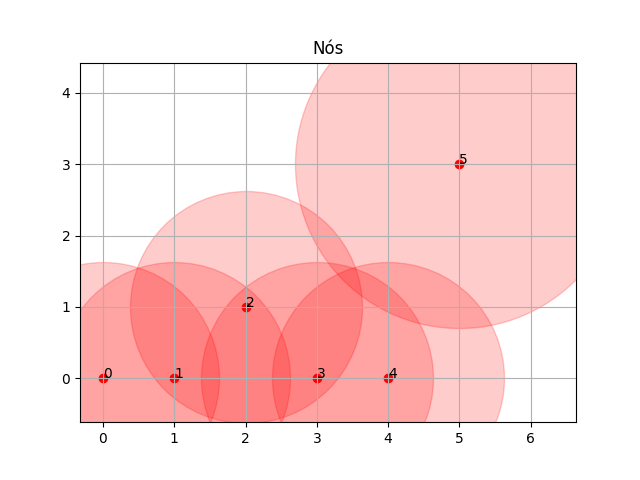
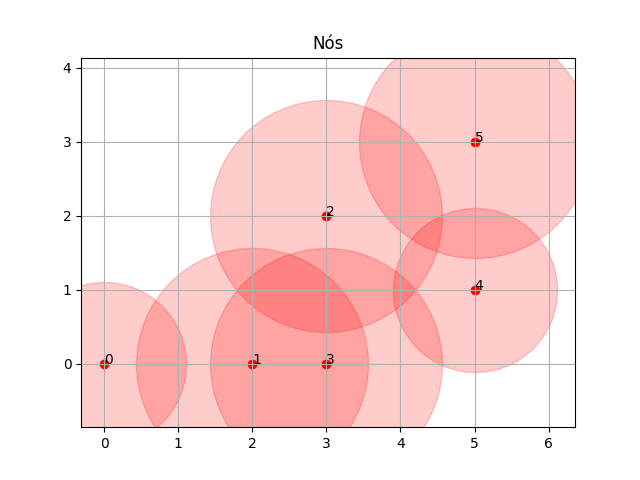
erros nas mensagens

diff --git a/camadaRede.py b/camadaRede.py
@@ -23,9 +23,9 @@ class CamadaRede:
         cabecalho = Cabecalho("REDE", self._camadaEnlace._camadaFisica._id, macDestino, -1, 1, -1, sequencia)
         pacote = Pacote(rota, 1)
         pacote.addCabecalho(cabecalho)
-        msg = "Enviando um RREP com destino para"
+        msg = "Enviando um RREP com destino para ID:"
         #exibe pacote criado
-        self.exibePacote(msg,  self._camadaEnlace._camadaFisica._id, macDestino)
+        self.exibePacote(msg,  self._camadaEnlace._camadaFisica._id, macDestino, cabecalho._sequenNum)
         #Define a rota requisitada
         for indice,mac in enumerate(cabecalho._sequenList):
             if(mac == self._camadaEnlace._camadaFisica._id):       
@@ -42,15 +42,15 @@ class CamadaRede:
         # add o proprio endereço da camada fisica no pacote 
         sequencia.append(self._camadaEnlace._camadaFisica._id)
         # numero do pacote
-        sequenNum = random.randint(1,128733788) 
+        sequenNum = random.randint(1,4412349) 
         self._listaRREQS.append(sequenNum)
         #Cria um pacote e inseri o cabeçalho da camada de rede
         cabecalho = Cabecalho("REDE", self._camadaEnlace._camadaFisica._id, macDestino, -1, 0, sequenNum, sequencia)
         pacote = Pacote("", 1)
         pacote.addCabecalho(cabecalho)
-        msg = "Enviando um RREQ "
+        msg = "Enviando um RREQ"
         #exibe pacote criado
-        self.exibePacote(msg, self._camadaEnlace._camadaFisica._id, None)
+        self.exibePacote(msg, self._camadaEnlace._camadaFisica._id,macDestino, sequenNum) #TROQUEI CABEÇALHO._SEQUENNUM por sequenNUM
         #add a camada de enlace o pacote
         self._camadaEnlace.addPacote(pacote, -1)
         
@@ -63,16 +63,16 @@ class CamadaRede:
             pacote = self._camadaEnlace._pacotesLidos.pop(0)
             cabecalho = pacote.getCabecalhoRede()
             #Se o pacote for recebido for de dados
-            if(cabecalho._requesicao == -1):
+            if(cabecalho._requisicao == -1):
                 #Verifica se o pacote é para aquele no
                 if(cabecalho._macDestino == self._camadaEnlace._camadaFisica._id):
                     msg = "Pacote de dados"
-                    self.exibePacote(msg, self._camadaEnlace._camadaFisica._id, pacote._dados)
+                    self.exibePacote(msg, self._camadaEnlace._camadaFisica._id, pacote._dados, cabecalho._sequenNum)
                 else:
                     msg = "Chegada de pacote de dados mas não é pra mim "
-                    self.exibePacote(msg, self._camadaEnlace._camadaFisica._id, 0)
+                    self.exibePacote(msg, self._camadaEnlace._camadaFisica._id, cabecalho._macDestino, cabecalho._sequenNum)
                     msg_2 = "Enviando pacote de dados para o nó seguinte"
-                    self.exibePacote(msg_2, self._camadaEnlace._camadaFisica._id, 0)
+                    self.exibePacote(msg_2, self._camadaEnlace._camadaFisica._id, cabecalho._macDestino,cabecalho._sequenNum) #!!!!!!
                     for indice,mac in enumerate(pacote._cabecalhos[0]._sequenList):
                         if(mac == self._camadaEnlace._camadaFisica._id):
                             proximoDestino = cabecalho._sequenList[indice-1]
@@ -82,9 +82,9 @@ class CamadaRede:
                     indicesParaEnvio.append(self._camadaEnlace._camadaFisica._id)
 
             #Se o pacote for recebido for um RREQ
-            elif(cabecalho._requesicao == 0):
+            elif(cabecalho._requisicao == 0):
                 msg = "Chegada de pacote RREQ"
-                self.exibePacote(msg, self._camadaEnlace._camadaFisica._id, cabecalho._sequenNum)
+                self.exibePacote(msg, self._camadaEnlace._camadaFisica._id, cabecalho._macDestino, cabecalho._sequenNum)
                 #Verifica se esse RREQ já foi recebido pelo nó
                 if(not cabecalho._sequenNum in self._listaRREQS):
                     self._listaRREQS.append(cabecalho._sequenNum)
@@ -93,14 +93,13 @@ class CamadaRede:
                     #Verifica se o RREQ é para o nó
                     if(cabecalho._macDestino == self._camadaEnlace._camadaFisica._id):
                         msg = "Eu sou o destino do RREQ"
-                        self.exibePacote(msg, self._camadaEnlace._camadaFisica._id, 0)
+                        self.exibePacote(msg, self._camadaEnlace._camadaFisica._id, cabecalho._macDestino, cabecalho._sequenNum)
                         rota = cabecalho._sequenList
                         macDestino = rota[0]
                         sequenParaFonte = rota 
                         sequenParaFonte.reverse()
                         self.enviaRREP(macDestino,sequenParaFonte, rota)
                         indicesParaEnvio.append(self._camadaEnlace._camadaFisica._id)
-
                     else:
                         print("ID:", self._camadaEnlace._camadaFisica._id, "Eu não sou o destino do RREQ")
                         self._camadaEnlace.addPacote(pacote, -1)
@@ -108,18 +107,18 @@ class CamadaRede:
                 
                 else:
                     msg = "Ja tenho esse RREQ"
-                    self.exibePacote(msg, self._camadaEnlace._camadaFisica._id, cabecalho._sequenNum)
+                    self.exibePacote(msg, self._camadaEnlace._camadaFisica._id, cabecalho._macDestino ,cabecalho._sequenNum)
             #Se o pacote for recebido for um RREP
-            elif(cabecalho._requesicao == 1):
+            elif(cabecalho._requisicao == 1):
                 destino = cabecalho._macDestino
                 msg = "Chegada de pacote RREP: "
-                self.exibePacote(msg, self._camadaEnlace._camadaFisica._id, cabecalho._sequenList)
+                self.exibePacote(msg, self._camadaEnlace._camadaFisica._id, cabecalho._macDestino, cabecalho._sequenList)
                 #Verifica se o RREP é para o nó
                 if(destino == self._camadaEnlace._camadaFisica._id):
                     msg = "Eu sou o destino do RREP"
-                    self.exibePacote(msg, self._camadaEnlace._camadaFisica._id, 0)
+                    self.exibePacote(msg, self._camadaEnlace._camadaFisica._id, cabecalho._macDestino,  cabecalho._sequenNum)
                     msg_2 = "Enviando dados"
-                    self.exibePacote(msg, self._camadaEnlace._camadaFisica._id, 0)
+                    self.exibePacote(msg, self._camadaEnlace._camadaFisica._id, cabecalho._macDestino, cabecalho._sequenNum)
                     sequenParaFonte = pacote._dados
                     rota = Rota(cabecalho._sequenList[0],sequenParaFonte)
                     self._rotas.append(rota)
@@ -127,7 +126,7 @@ class CamadaRede:
 
                 else:
                     msg = "Eu não sou o destino do RREP"
-                    self.exibePacote(msg, self._camadaEnlace._camadaFisica._id, 0)
+                    self.exibePacote(msg, self._camadaEnlace._camadaFisica._id, cabecalho._macDestino,  cabecalho._sequenNum)
                     for indice,mac in enumerate(cabecalho._sequenList):
                         if(mac == self._camadaEnlace._camadaFisica._id):
                             proximoDestino = cabecalho._sequenList[indice+1]
@@ -172,7 +171,6 @@ class CamadaRede:
                 indicesParaEnvio.append(self._camadaEnlace._camadaFisica._id)
 
             elif(not cabecalho._macDestino in self._ListasRotasEspera):
-
                 self._ListasRotasEspera.append(pacote._cabecalhos[0]._macDestino)
                 self.enviaRREQ(pacote._cabecalhos[0]._macDestino)
 
@@ -180,9 +178,19 @@ class CamadaRede:
         #Chama a função de enviar pacotes da camada de enlace
         self._camadaEnlace.enviaPacote()
         
-    def exibePacote(self, mensagem,  id, macDestino):
+    def exibePacote(self, mensagem,  id, macDestino, NumSequencia):
         if(mensagem == "Pacote de dados"):
             print(GREEN, "\nID:", id, "Mensagem:", macDestino, RESET)
+        elif(mensagem == "Enviando um RREQ"):
+            print("ID:", macDestino, mensagem,"para ID:" ,id, "com NumSequencia:", NumSequencia)
+        elif(mensagem == "Chegada de pacote RREQ"):
+            print("ID:",macDestino, mensagem, "com:", NumSequencia)
+        elif(mensagem == "Eu sou o destino do RREQ"):
+            print(GREEN, "\rID:", id, mensagem, RESET)
+        elif(mensagem == "Ja tenho esse RREQ"):
+            print("ID:", id, mensagem)
+        elif(mensagem == "Enviando um RREP com destino para ID:"):
+            print("ID:",macDestino, mensagem, id)
         else:
-            print("\nID:", id, mensagem, "MacDestino:", macDestino)
+            print("ID:", id, mensagem, "MacDestino", macDestino)
         

diff --git a/cabecalhos.py b/cabecalhos.py
@@ -1,20 +1,20 @@
 class Cabecalho:
 
-    def __init__(self, camada, macOrigem, macDestino, numero, requesicao, sequenNum, sequenList):
+    def __init__(self, camada, macOrigem, macDestino, numero, requisicao, sequenNum, sequenList):
         
-        #Cabeçario para a camada de enlace 
+        #Cabeçalho quando o pacote for camada de enlace 
         if(camada == "ENLACE"):
             self._camada = "ENLACE"
             self._macOrigem = macOrigem
             self._macDestino = macDestino
             self._numero = numero
 
-        #Cabeçario para a camada de rede  
+        #Cabeçalho quando o pacote for camada de rede  
         if( camada == "REDE"):
             self._camada = "REDE"
             self._macDestino = macDestino
             #identifica tipos de pacote de controle, requisição 
-            self._requesicao = requesicao
+            self._requisicao = requisicao
             # numero do pacote
             self._sequenNum = sequenNum
             # endereço mac da camada fisica

diff --git a/main.py b/main.py
@@ -7,12 +7,12 @@ from graficos  import criaGraficos
 from constantes import *
 
 #No(id, cobertura, x, y, bateria)
-Lucas = No(0, 2, 0, 0, 40)
-Thales = No(1, 2, 1, 0, 10)
-Joao = No(2, 2, 2, 1, 10)
-Pessoa = No(3, 2, 3, 0, 10)
-Danielle = No(4, 2, 4, 0, 10)
-Luciano = No(5, 2, 5, 3, 10)
+Lucas = No(0, 1, 0, 0, 100)
+Thales = No(1, 2, 2, 0, 100)
+Joao = No(2, 2, 3, 2, 100)
+Pessoa = No(3, 2, 3, 0, 100)
+Danielle = No(4, 1, 5, 1, 100)
+Luciano = No(5, 2, 5, 3, 100)
 
 id = []
 x = []

diff --git a/graficos.py b/graficos.py
@@ -17,6 +17,7 @@ def criaGraficos(id, x, y, cobertura):
     #plt.xlim(-10, 10)
 
     fig.savefig('./plotcircles.png')
+    plt.show()
 
 
 if __name__ == "__main__":
